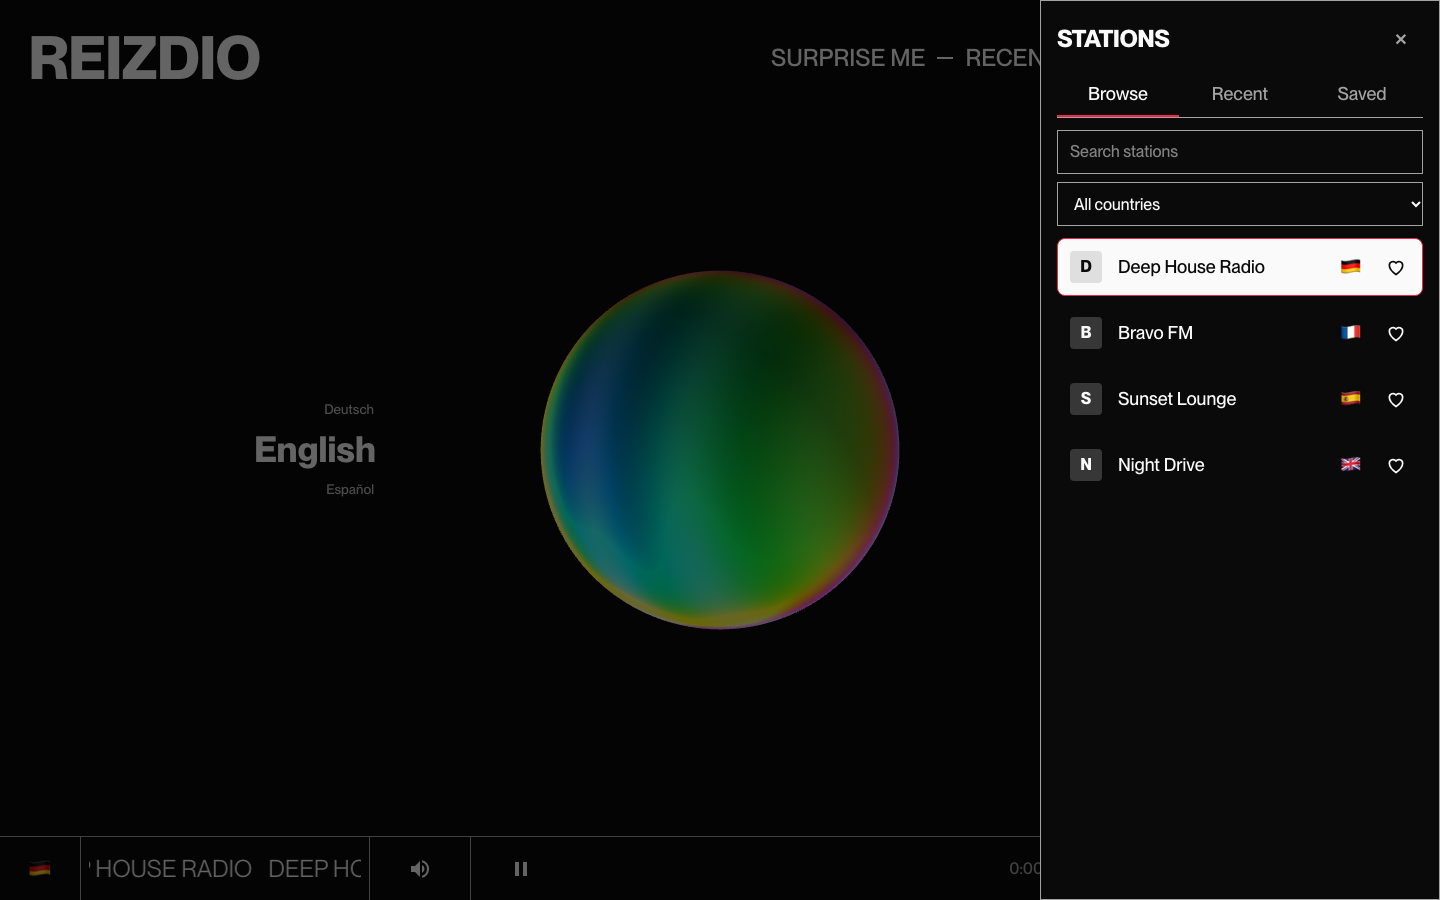
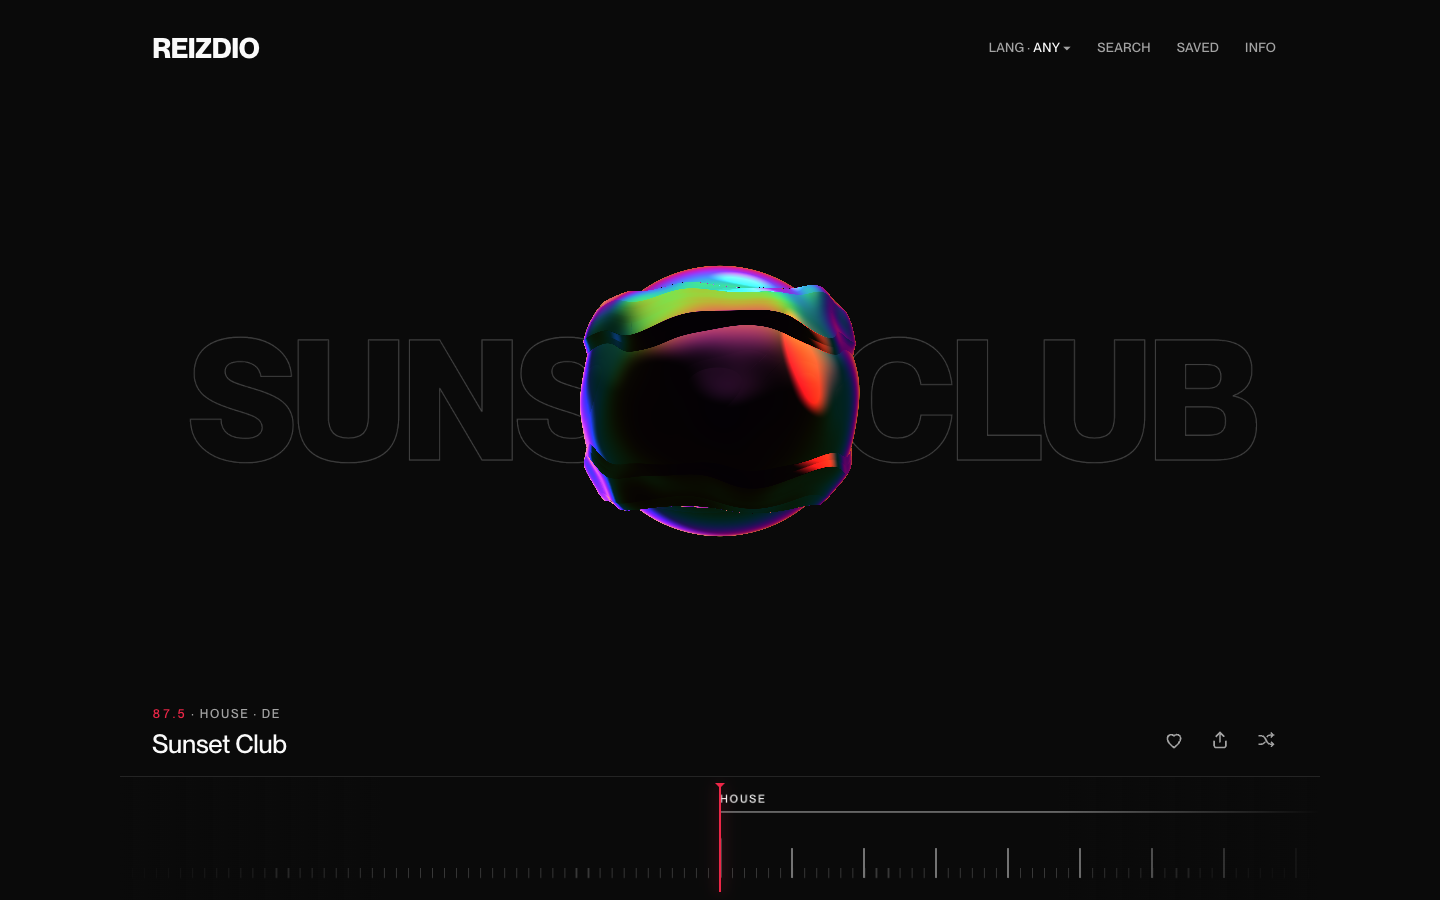
docs: README and a11y for the tuner layout

diff --git a/tests/e2e/a11y.spec.ts b/tests/e2e/a11y.spec.ts
@@ -26,6 +26,7 @@ async function setup(page: Page) {
     route.fulfill({ status: 200, contentType: "audio/wav", body: tone }),
   );
   await page.route("**/api/stations*", (route) => route.fulfill({ json: stations }));
+  await page.route("**/api/stations/search*", (route) => route.fulfill({ json: stations }));
   await page.route("**/api/countries*", (route) =>
     route.fulfill({ json: [{ code: "DE", name: "Germany" }] }),
   );
@@ -82,11 +83,12 @@ test.describe("desktop", () => {
     await expectNoSevereViolations(page);
   });
 
-  // fixme(Task 13: the "Stations" button was removed with the play bar).
-  test.fixme("no serious axe violations with the panel open", async ({ page }) => {
+  test("no serious axe violations with the panel open", async ({ page }) => {
     await setup(page);
-    await page.getByRole("button", { name: "Stations" }).click();
+    await page.getByRole("button", { name: "SEARCH" }).click();
     await expect(page.getByRole("dialog")).toBeVisible();
+    await expect(page.getByRole("tab", { name: "Search" })).toHaveAttribute("aria-selected", "true");
+    await page.waitForTimeout(400); // panel slide-in settles before axe samples colours
     await expectNoSevereViolations(page);
   });
 
@@ -95,18 +97,15 @@ test.describe("desktop", () => {
     await expectFocusRings(page, DESKTOP_TAB_STOPS);
   });
 
-  // fixme(Task 13: the genre picker was removed (the dial replaces it)).
-  test.fixme("genre picker is a keyboard radio group", async ({ page }) => {
+  test("the dial is a keyboard slider", async ({ page }) => {
     await setup(page);
-    const picker = page.getByRole("radiogroup", { name: "Genre" });
-    const checked = picker.getByRole("radio", { checked: true });
-    await expect(checked).toHaveText("House");
-    await checked.focus();
-    const request = page.waitForRequest((r) => r.url().includes("/api/stations?genre=dance"));
-    await page.keyboard.press("ArrowDown");
-    await request;
-    await expect(picker.getByRole("radio", { checked: true })).toHaveText("Dance");
-    await expect(picker.getByRole("radio", { checked: true })).toBeFocused();
+    const dial = page.getByRole("slider", { name: "Tune stations" });
+    await dial.focus();
+    await page.keyboard.press("Home");
+    const first = await dial.getAttribute("aria-valuenow");
+    await page.keyboard.press("ArrowRight");
+    await expect(dial).not.toHaveAttribute("aria-valuenow", first!);
+    await expect(dial).toBeFocused();
   });
 });
 
@@ -118,11 +117,12 @@ test.describe("390px", () => {
     await expectNoSevereViolations(page);
   });
 
-  // fixme(Task 13: the "Stations" button was removed with the play bar).
-  test.fixme("no serious axe violations with the panel open", async ({ page }) => {
+  test("no serious axe violations with the panel open", async ({ page }) => {
     await setup(page);
-    await page.getByRole("button", { name: "Stations" }).click();
+    await page.getByRole("button", { name: "SEARCH" }).click();
     await expect(page.getByRole("dialog")).toBeVisible();
+    await expect(page.getByRole("tab", { name: "Search" })).toHaveAttribute("aria-selected", "true");
+    await page.waitForTimeout(400); // panel slide-in settles before axe samples colours
     await expectNoSevereViolations(page);
   });
 
@@ -132,32 +132,21 @@ test.describe("390px", () => {
   });
 });
 
-// fixme(Task 13: the "Stations" button was removed with the play bar).
-test.fixme("station rows are buttons", async ({ page }) => {
+test("station rows are buttons", async ({ page }) => {
   await setup(page);
-  await page.getByRole("button", { name: "Stations" }).click();
+  await page.getByRole("button", { name: "SEARCH" }).click();
+  await page.getByRole("searchbox", { name: "Search stations" }).fill("alpha");
   await expect(page.getByRole("button", { name: /Alpha FM/ })).toBeVisible();
 });
 
-// fixme(Task 13: the "Stations" button and the marquee were removed).
-test.fixme("reduced motion disables the marquee", async ({ page }) => {
-  await page.emulateMedia({ reducedMotion: "reduce" });
-  await setup(page);
-  await page.getByRole("button", { name: "Stations" }).click();
-  await page.getByRole("button", { name: /Alpha FM/ }).click();
-  const name = await page.locator(".animate-marquee").first().evaluate((el) => getComputedStyle(el).animationName);
-  expect(name).toBe("none");
-});
-
-// fixme(Task 13: the RECENT header button was removed).
-test.fixme("focus returns to the opener control even when the opener was not focused", async ({ page }) => {
+test("focus returns to the opener control even when the opener was not focused", async ({ page }) => {
   await setup(page);
   // Simulate Safari/Firefox: a mouse click leaves document.activeElement on body.
-  await page.getByRole("button", { name: "RECENT" }).evaluate((el) => {
+  await page.getByRole("button", { name: "SAVED" }).evaluate((el) => {
     el.addEventListener("mousedown", (e) => e.preventDefault());
   });
-  await page.getByRole("button", { name: "RECENT" }).click();
+  await page.getByRole("button", { name: "SAVED" }).click();
   await expect(page.getByRole("dialog")).toBeVisible();
   await page.keyboard.press("Escape");
-  await expect(page.getByRole("button", { name: "RECENT" })).toBeFocused();
+  await expect(page.getByRole("button", { name: "SAVED" })).toBeFocused();
 });

diff --git a/README.md b/README.md
@@ -5,21 +5,42 @@
 <p align="center">Live web radio with a 3D visualizer that moves to whatever you're listening to.<br>
 <a href="https://www.reiz.live">www.reiz.live</a></p>
 
-![REIZDIO with the station panel open](docs/screenshot.png)
+![REIZDIO tuned to a station](docs/screenshot.png)
 
 ## Features
 
-- **Live radio, visualized.** A three.js blob reacts to the stream in real time, split into bass, mid and treble bands. It crossfades between idle and playing, and calms down under `prefers-reduced-motion`.
-- **Pick by genre and language.** Scroll-pickers on desktop, chip rows on phones.
-- **Station panel.** Browse, Recent and Saved tabs in a side drawer (bottom sheet on phones). Name search across all of Radio Browser with an optional country filter.
-- **Surprise me.** Plays a random verified station from the current genre.
-- **Recent.** The last 20 stations, kept in localStorage. No account needed.
-- **Saved.** Heart a station to keep it. Email/password login via Supabase; saving while logged out opens login and completes the save afterwards.
+- **A radio dial, not a list.** Drag, scroll or use the arrow keys to tune across genre bands. The station name sits huge behind the blob, and a readout shows the frequency, genre, country and name.
+- **Liquid chrome blob.** A raymarched three.js blob reacts to the stream in real time: bass drives its lobes, kicks send a shockwave through it, snares and mids shift its colours. It is also the play and pause button. Under `prefers-reduced-motion` it moves less and drops the shockwave.
+- **Tuning static.** While the needle moves, the stream ducks and band-passed noise rises, and the blob greys out and grains to match. It settles when the new station plays.
+- **Frequency intro.** A short loader sweeps 87.5 to 108.0 MHz while the app loads, then splits open along the needle. It is a quick fade under reduced motion.
+- **Genre bands and language.** Each band holds the top stations for that genre, and a language switch in the header re-tunes the dial.
+- **Search, Recent and Saved.** Name search across all of Radio Browser with an optional country filter, the last 20 stations (kept in localStorage, no account needed), and hearted stations. Email/password login via Supabase; saving while logged out opens login and completes the save afterwards.
+- **Surprise me.** A shuffle button glides the dial to a random loaded station.
 - **Sharing.** `/s/[stationId]` opens the app on that station with a tap-to-play state (browsers block autoplay), and renders a generated OG image. The share button uses the native share sheet or copies the link.
-- **Phone-ready.** Compact play bar and Media Session support for lock-screen and media-key controls.
-- **Honest empty and error states.** Skeletons while stations verify, a clear message when a genre/language combo has nothing, with an "Any language" escape hatch.
+- **One layout, phone-ready.** The same layout works from 360 px up, with Media Session support for lock-screen and media-key controls.
+- **Honest empty and error states.** A band that fails to load says so with a Retry button, an empty band says it is empty, and the blob keeps breathing if Radio Browser is down.
 
 ## How it works
+
+### The tuner dial
+
+`lib/dial/layout.ts` is a pure layout model. Each genre band reserves 12 slots, filled with that band's top stations by votes. Station ticks sit a fixed distance apart and bands are separated by a gap, so the dial does not jump when stations arrive. An unloaded band draws as a faint labelled stretch with placeholder ticks. The frequencies are decorative: slots, not stations, are spread evenly across 87.5 to 108.0 over the whole dial, so a station keeps its number for a given language.
+
+Bands load lazily. `hooks/useDialBands.ts` waits for the needle to rest on a band, then loads that band and its two neighbours, with at most three requests in flight. Changing the language aborts pending requests and resets the dial. Band state lives in `store/dial.ts`. The dial is a `slider` for assistive tech, with keyboard support for arrows, Home, End and Page keys, and the playback queue follows the band under the needle.
+
+### The chrome blob
+
+`visualizer/analysis.ts` is pure and unit-tested. It turns the analyser's frequency data into 32 log-spaced bands from 30 Hz to 16 kHz, applies an automatic level control so quiet and loud streams both fill the range, and derives bass, mid, treble and snare levels. It also detects kicks, which feed a jelly squash spring and a flash.
+
+`visualizer/shaders.ts` raymarches the blob on a full-screen quad, and `visualizer/scene.ts` runs it through three.js on a transparent canvas. The spectrum goes in as a small data texture, so nothing about the audio passes through React state and there is no re-render per frame. Pixel ratio and raymarch steps are lower on coarse pointers, rendering pauses while the tab is hidden, and a CSS gradient disc replaces the blob if WebGL is unavailable.
+
+### Tuning static
+
+`lib/audio/engine.ts` has `setTuning(on)`. While tuning, the stream ducks and a looping band-passed noise source rises. The noise feeds the same analyser as the stream, so the blob's grainy look and the sound always match. The noise is created on the first user-started load, so nothing sounds before the user has started the audio. It fades out when the new station plays, or after 3 seconds.
+
+### The intro
+
+`components/Intro.tsx` shows on a first load of `/` and `/s/[id]`. The frequency reading follows real progress (fonts loaded, first band loaded, first blob frame drawn) through `lib/intro/progress.ts`, which guarantees a minimum of 1.6 s, a maximum of 6 s and a monotonic count. After the intro the first station is primed, and the first tap on the blob starts audio.
 
 ### Only streams the visualizer can read are listed
 
@@ -35,11 +56,11 @@ List endpoints over-fetch about 150 candidates from Radio Browser and return the
 
 ### Audio engine to visualizer
 
-`lib/audio/engine.ts` is a singleton that owns one `HTMLAudioElement` and one `AudioContext` + `AnalyserNode` for the lifetime of the app (the old version created a new context on every station change). It exposes `load`, `play`, `pause`, volume and mute, the analyser, and `playing` / `paused` / `blocked` / `failed` events (`blocked` means the browser wants a tap before audio may start; it never marks a station bad). `lib/audio/mediaSession.ts` mirrors it into the Media Session API.
+`lib/audio/engine.ts` is a singleton that owns one `HTMLAudioElement` and one `AudioContext` + `AnalyserNode` for the lifetime of the app (the old version created a new context on every station change). It exposes `load`, `play`, `pause`, `setTuning`, volume, the analyser, and `playing` / `paused` / `blocked` / `failed` events (`blocked` means the browser wants a tap before audio may start; it never marks a station bad). `lib/audio/mediaSession.ts` mirrors it into the Media Session API.
 
-`visualizer/` is a framework-agnostic three.js scene: `createVisualizer(container, getAnalyser)` returns `{ setActive, dispose }`. Each frame it reads the analyser, `bands.ts` reduces the spectrum to smoothed bass/mid/treble values, and they go straight into shader uniforms. Nothing about the audio passes through React state, so there is no re-render per frame. The renderer pauses while the tab is hidden and uses an adaptive pixel ratio on mobile.
+`visualizer/` is a framework-agnostic three.js scene: `createVisualizer` takes a container and an analyser getter and returns a handle to activate and dispose it. Each frame it reads the analyser, `analysis.ts` reduces the spectrum to levels, and they go straight into shader uniforms (see "The chrome blob" above).
 
-React only holds the UI: `store/player.ts` (station, list, genre, language, play state, volume) and `store/auth.ts` are Zustand stores, `lib/library/recents.ts` persists recents, and `lib/library/saved.ts` maps `saved_stations` rows to stations.
+React only holds the UI: `store/player.ts` (station, list, language, play state, volume), `store/dial.ts` (bands, needle) and `store/auth.ts` are Zustand stores, `lib/library/recents.ts` persists recents, and `lib/library/saved.ts` maps `saved_stations` rows to stations.
 
 ## Stack
 
